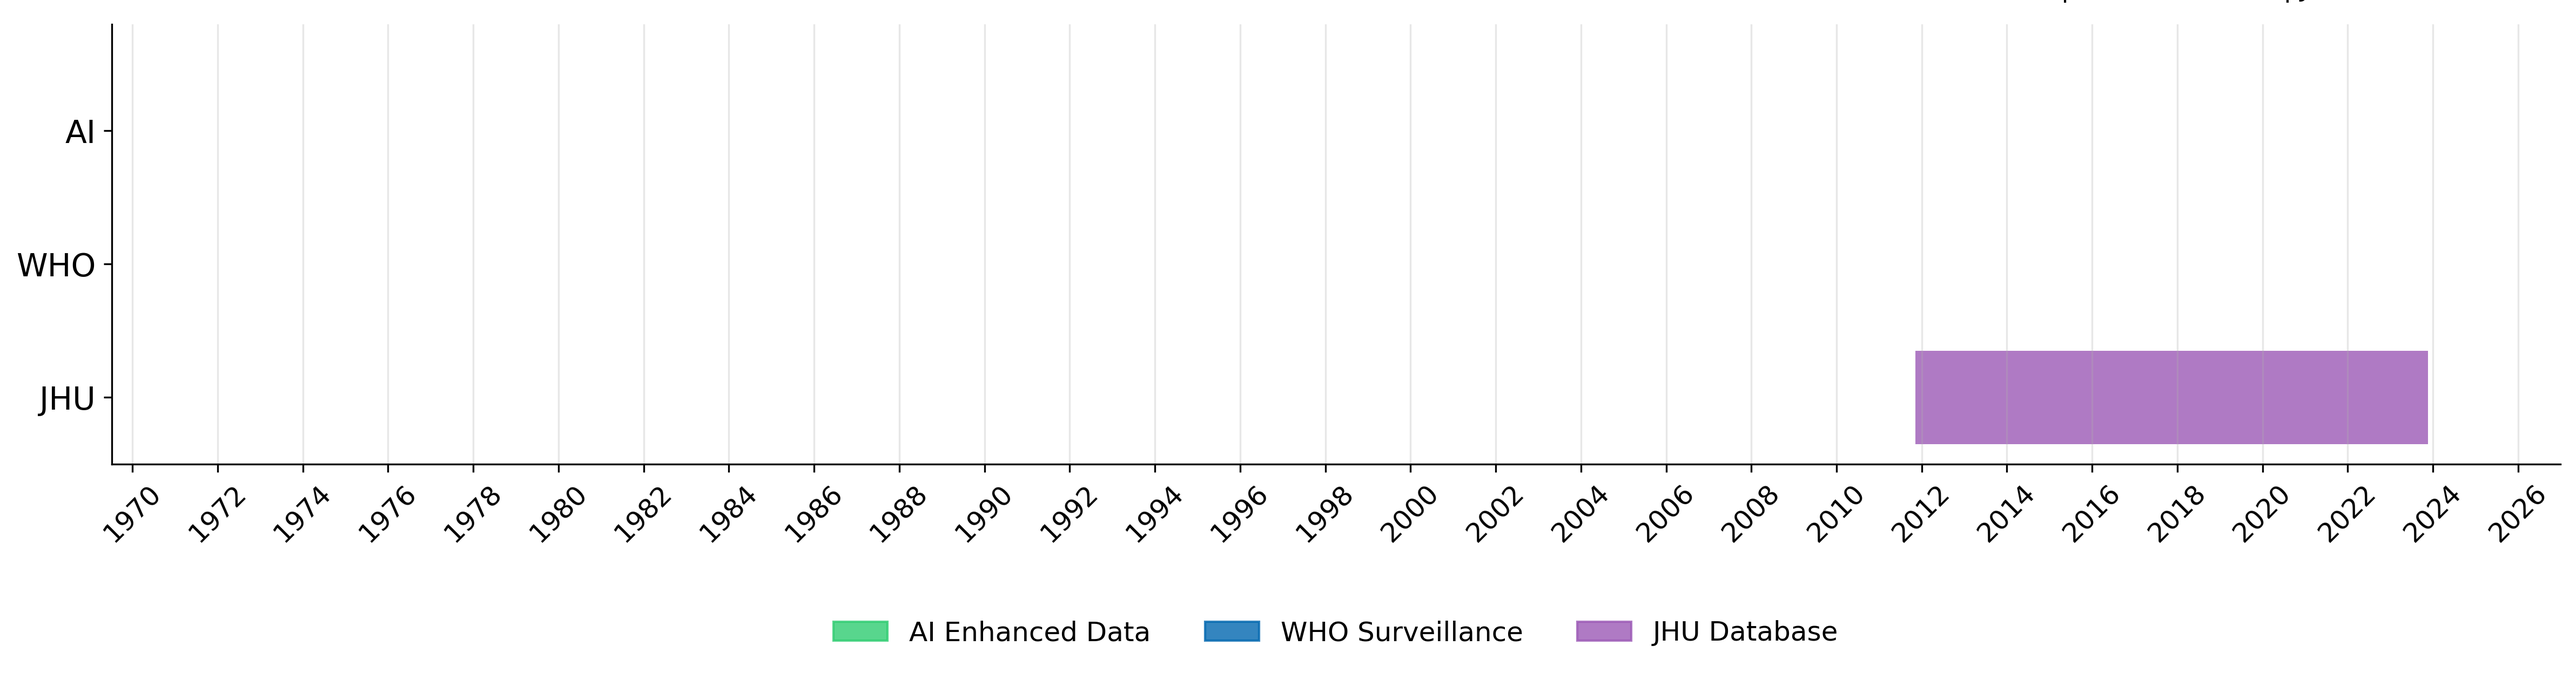
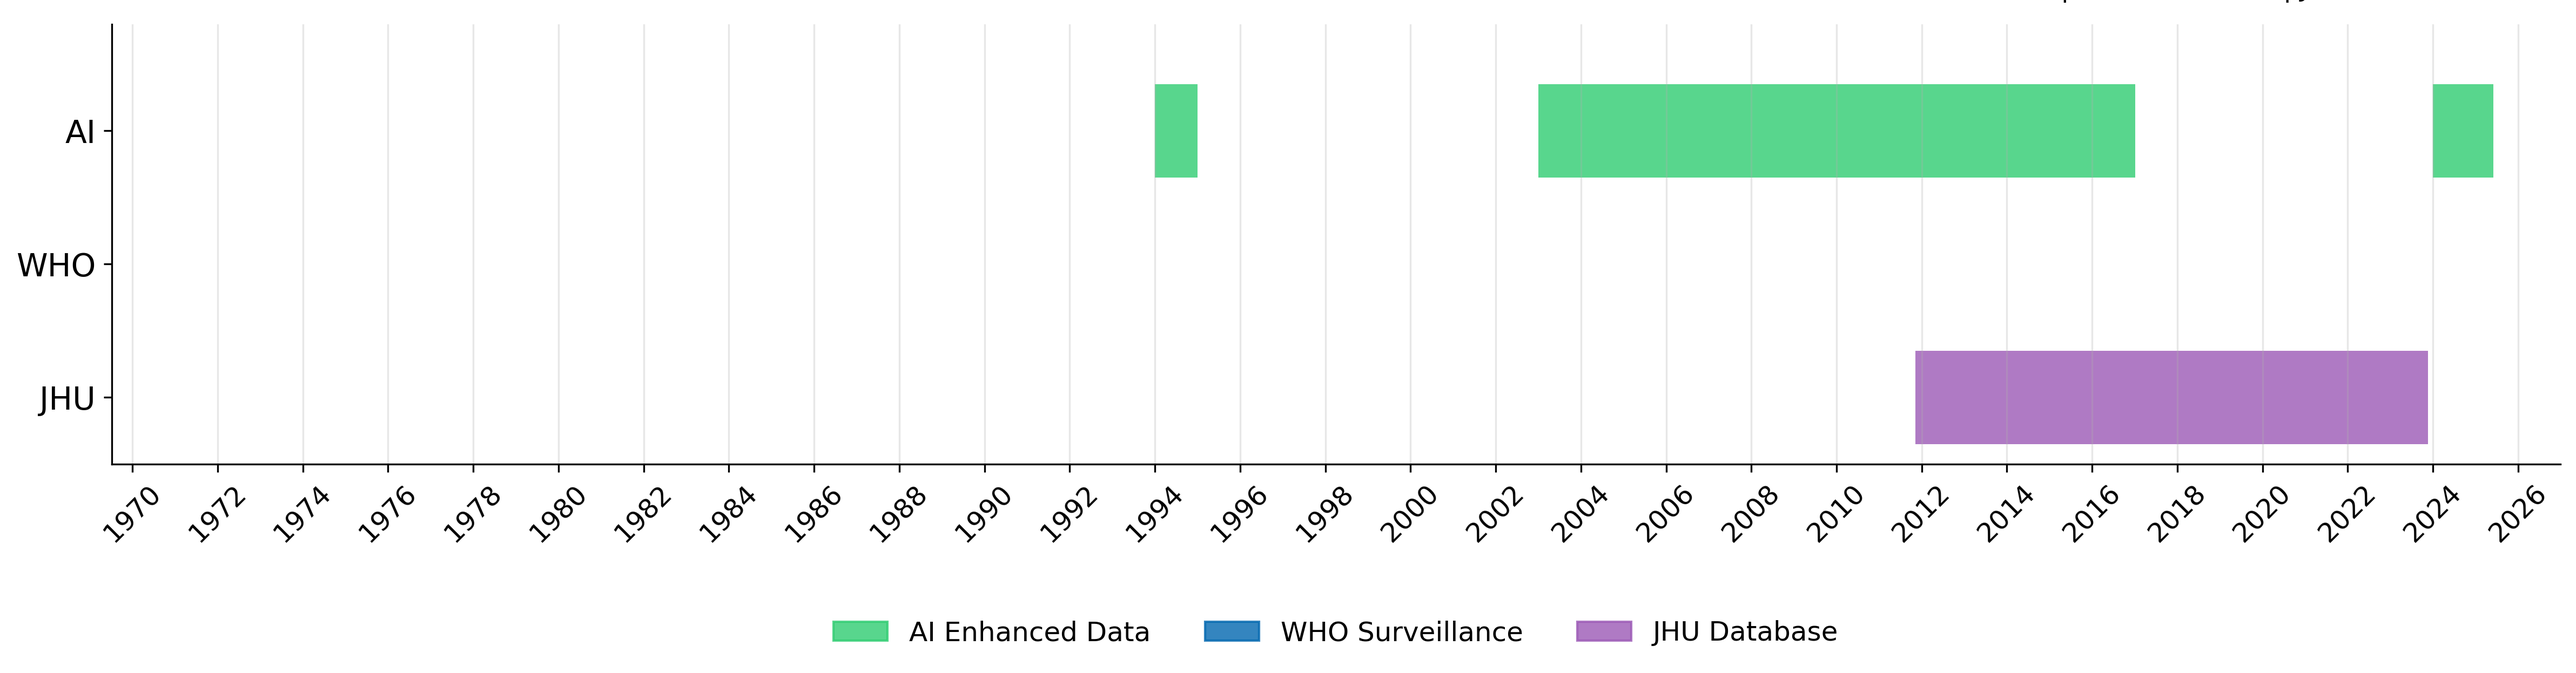
Auto-update dashboard data - 2025-07-23 20:56:36 - Generated with Claude Code

Changed region(s): [[0.5936, 0.1219, 0.8436, 0.2743], [0.9373, 0.1219, 0.9685, 0.2743], [0.4374, 0.1219, 0.4687, 0.2743]]

diff --git a/dashboard/dashboard.html b/dashboard/dashboard.html
@@ -1842,7 +1842,21 @@
                 "country": "Guinea",
                 "iso": "GIN",
                 "status": "PENDING",
-                "datetime": "2025-07-23 20:51:09",
+                "datetime": "2025-07-23 20:56:08",
+                "sources": 6,
+                "observations": 7,
+                "date_range": "1994-2025",
+                "priority": "HIGH",
+                "execution_time": 0,
+                "queries": 0,
+                "yield_pct": 0.0,
+                "notes": "Agent 1 completed; 7 data observations | Manual: No activity detected"
+        },
+        {
+                "country": "Gambia",
+                "iso": "GMB",
+                "status": "PENDING",
+                "datetime": "2025-07-23 20:56:08",
                 "sources": 0,
                 "observations": 0,
                 "date_range": "",
@@ -1851,20 +1865,6 @@
                 "queries": 0,
                 "yield_pct": 0.0,
                 "notes": "Agent 1 initialized - starting work | Manual: No activity detected"
-        },
-        {
-                "country": "Gambia",
-                "iso": "GMB",
-                "status": "NOT_STARTED",
-                "datetime": "",
-                "sources": 0,
-                "observations": 0,
-                "date_range": "",
-                "priority": "",
-                "execution_time": 0,
-                "queries": 0,
-                "yield_pct": 0.0,
-                "notes": "No activity detected"
         },
         {
                 "country": "Guinea-Bissau",
@@ -2933,7 +2933,7 @@ Eritrea,ERI,1255,0,0
 Ethiopia,ETH,1150,125,180
 Gabon,GAB,1876,0,0
 Ghana,GHA,873,36,511
-Guinea,GIN,0,0,623
+Guinea,GIN,855,0,623
 Gambia,GMB,0,0,0
 Guinea-Bissau,GNB,0,0,327
 Equatorial Guinea,GNQ,0,0,0
